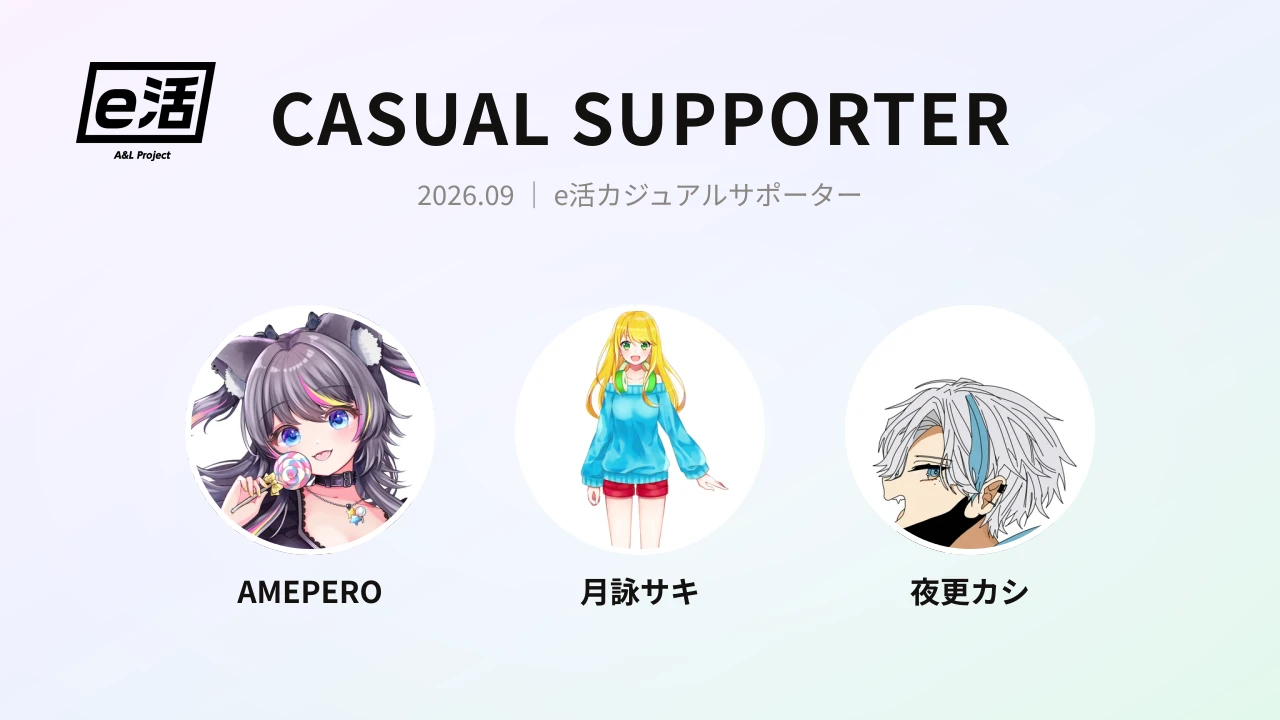
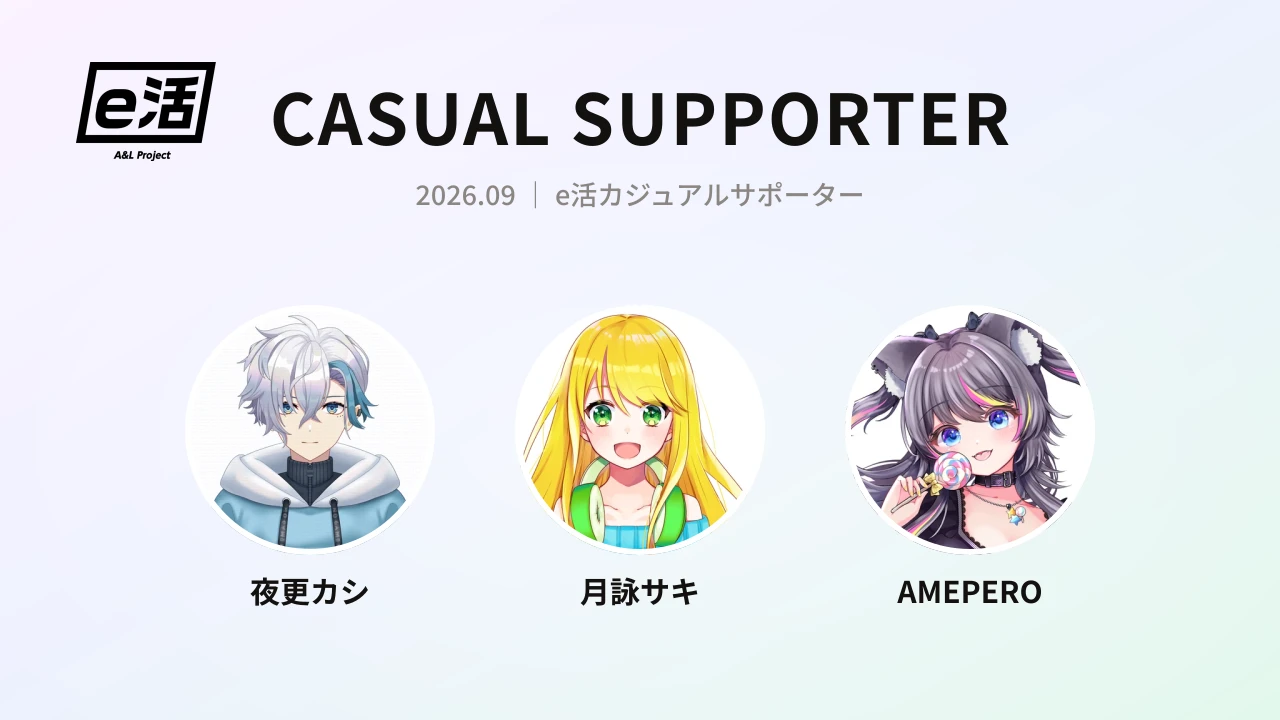
9/7の紹介記事を古い順に並べ直し、ひとことを手書きに差し替え
・並び＝夜更カシ → 月詠サキ → AMEPERO（古い順・依田指示）
・自動生成のひとことが途中で切れていた（AMEPERO）ので3人とも書き直した
・見出し画像を作り直したので、直したアイコン（月詠サキ・夜更カシ）が入る

diff --git a/vtuber.html b/vtuber.html
@@ -180,7 +180,7 @@
         <article class="vt-card">
           <img class="vt-card__photo" src="assets/img/vtuber/vt7.webp" alt="夜更カシ" width="200" height="200" loading="lazy" />
           <h3 class="vt-card__name">夜更カシ</h3>
-          <p class="vt-card__bio">夜更かし大好き隣人の友達系Vtuber。 Destiny2 / LOL / R6S。</p>
+          <p class="vt-card__bio">夜更かし大好き、友達みたいな距離感の配信。耐久も鬼畜ゲームも最後までやりきる。Destiny2 / LoL / R6S。</p>
           <div class="vt-card__links">
             <a href="https://x.com/yohukashi__game" target="_blank" rel="noopener">X</a>
             <a href="https://www.twitch.tv/yohukashi_game" target="_blank" rel="noopener">Twitch</a>
@@ -190,7 +190,7 @@
         <article class="vt-card">
           <img class="vt-card__photo" src="assets/img/vtuber/vt11.webp" alt="月詠サキ" width="200" height="200" loading="lazy" />
           <h3 class="vt-card__name">月詠サキ</h3>
-          <p class="vt-card__bio">大阪ご当地Vtuberとして日頃から大阪の観光や名物について話しています。 エレメンタルストーリー。</p>
+          <p class="vt-card__bio">大阪ご当地VTuber。観光や名物の話と食レポが得意。エレメンタルストーリー。</p>
           <div class="vt-card__links">
             <a href="https://x.com/72525Osaka2" target="_blank" rel="noopener">X</a>
             <a href="https://www.youtube.com/@月詠サキ_大阪ご当地V" target="_blank" rel="noopener">YouTube</a>
@@ -210,7 +210,7 @@
         <article class="vt-card">
           <img class="vt-card__photo" src="assets/img/vtuber/amepero.webp" alt="AMEPERO" width="200" height="200" loading="lazy" />
           <h3 class="vt-card__name">AMEPERO</h3>
-          <p class="vt-card__bio">ジャンルを問わずその時やりたいゲームの配信メインに雑談・歌枠・同時視聴・朗読・コラボなど幅… 雀魂・FF14・APEX・その他インディーゲームやホラゲーなどそのときやりたいことを何でもやります。。</p>
+          <p class="vt-card__bio">雑談・歌枠・同時視聴まで幅広く。下手なりに挑んで、突っ込まれながら伸びていくタイプ。雀魂 / FF14 / APEX。</p>
           <div class="vt-card__links">
             <a href="https://x.com/ameperocandy" target="_blank" rel="noopener">X</a>
             <a href="https://www.twitch.tv/amepero  https://youtube.com/@amepero" target="_blank" rel="noopener">YouTube</a>

diff --git a/news/supporter-2026-09-07.html b/news/supporter-2026-09-07.html
@@ -58,9 +58,9 @@
         </figure>
         <p>e活が協賛する大会を、カジュアルに応援してくれる「e活カジュアルサポーター」に、新しく3名の仲間が加わりました。</p>
         <ul>
-          <li><strong>AMEPERO</strong>｜ジャンルを問わずその時やりたいゲームの配信メインに雑談・歌枠・同時視聴・朗読・コラボなど幅… 雀魂・FF14・APEX・その他インディーゲームやホラゲーなどそのときやりたいことを何でもやります。。 <a target="_blank" rel="noopener" href="https://x.com/ameperocandy">@ameperocandy</a></li>
-          <li><strong>月詠サキ</strong>｜大阪ご当地Vtuberとして日頃から大阪の観光や名物について話しています。 エレメンタルストーリー。 <a target="_blank" rel="noopener" href="https://x.com/72525Osaka2">@72525Osaka2</a></li>
-          <li><strong>夜更カシ</strong>｜夜更かし大好き隣人の友達系Vtuber。 Destiny2 / LOL / R6S。 <a target="_blank" rel="noopener" href="https://x.com/yohukashi__game">@yohukashi__game</a></li>
+          <li><strong>夜更カシ</strong>｜夜更かし大好き、友達みたいな距離感の配信。耐久も鬼畜ゲームも最後までやりきる。Destiny2 / LoL / R6S。 <a target="_blank" rel="noopener" href="https://x.com/yohukashi__game">@yohukashi__game</a></li>
+          <li><strong>月詠サキ</strong>｜大阪ご当地VTuber。観光や名物の話と食レポが得意。エレメンタルストーリー。 <a target="_blank" rel="noopener" href="https://x.com/72525Osaka2">@72525Osaka2</a></li>
+          <li><strong>AMEPERO</strong>｜雑談・歌枠・同時視聴まで幅広く。下手なりに挑んで、突っ込まれながら伸びていくタイプ。雀魂 / FF14 / APEX。 <a target="_blank" rel="noopener" href="https://x.com/ameperocandy">@ameperocandy</a></li>
         </ul>
         <p>プロフィールの詳細は <a href="../vtuber.html">VTuber一覧ページ</a> からご覧いただけます。応援よろしくお願いいたします！</p>
         <p><strong>■ e活カジュアルサポーターを随時募集中です！</strong> e活では、共にコミュニティ大会を応援し、シーンを盛り上げてくださる配信者様を継続して募集しております。お気軽にお問い合わせください。</p>
